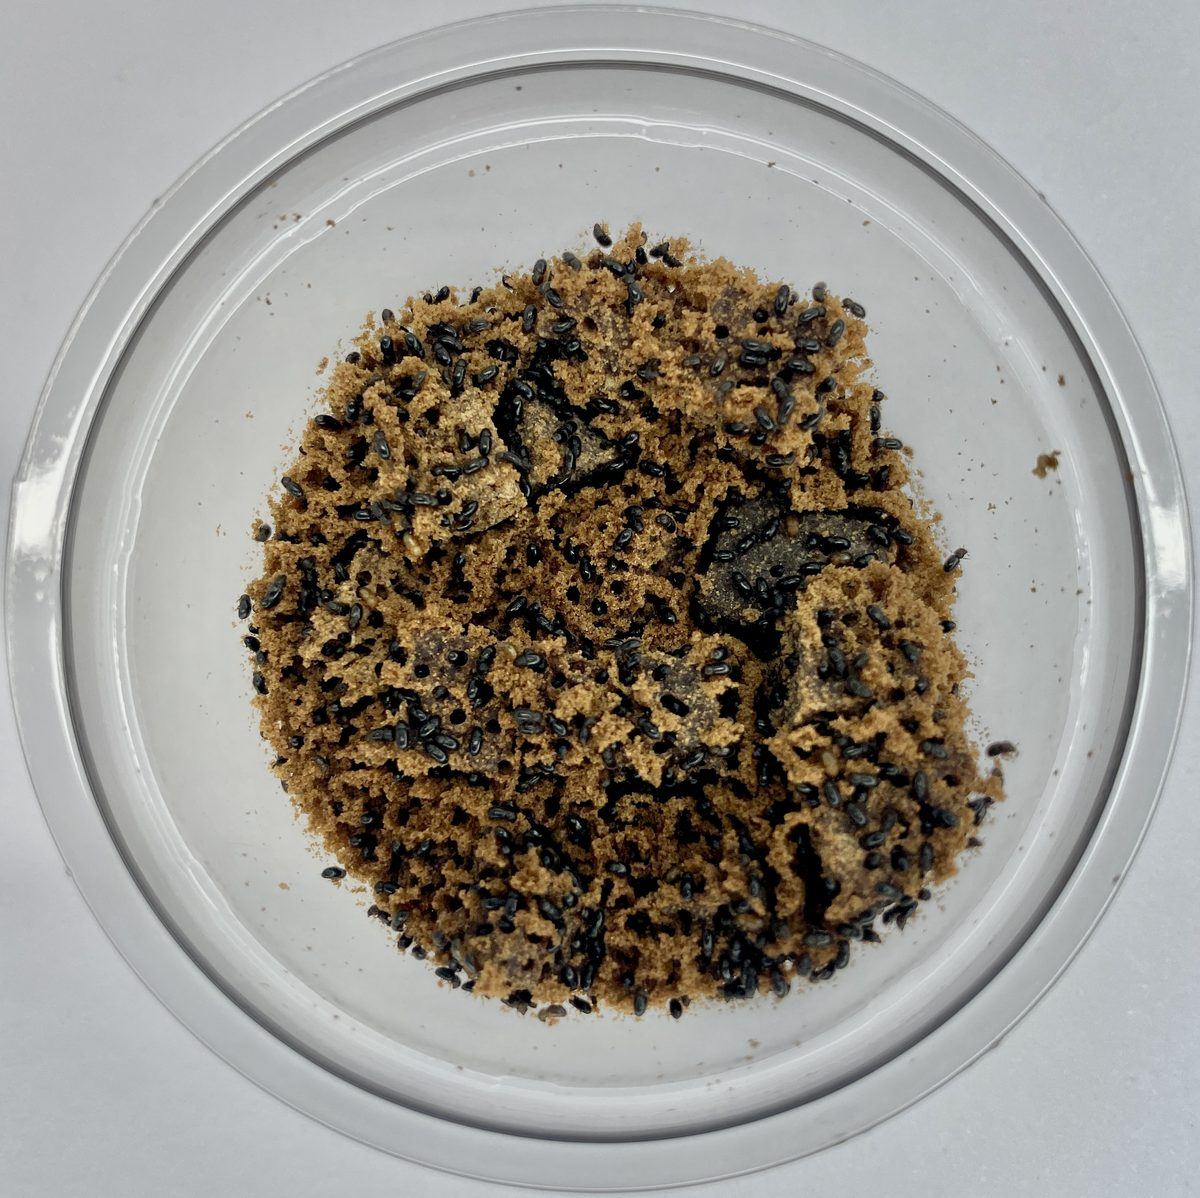
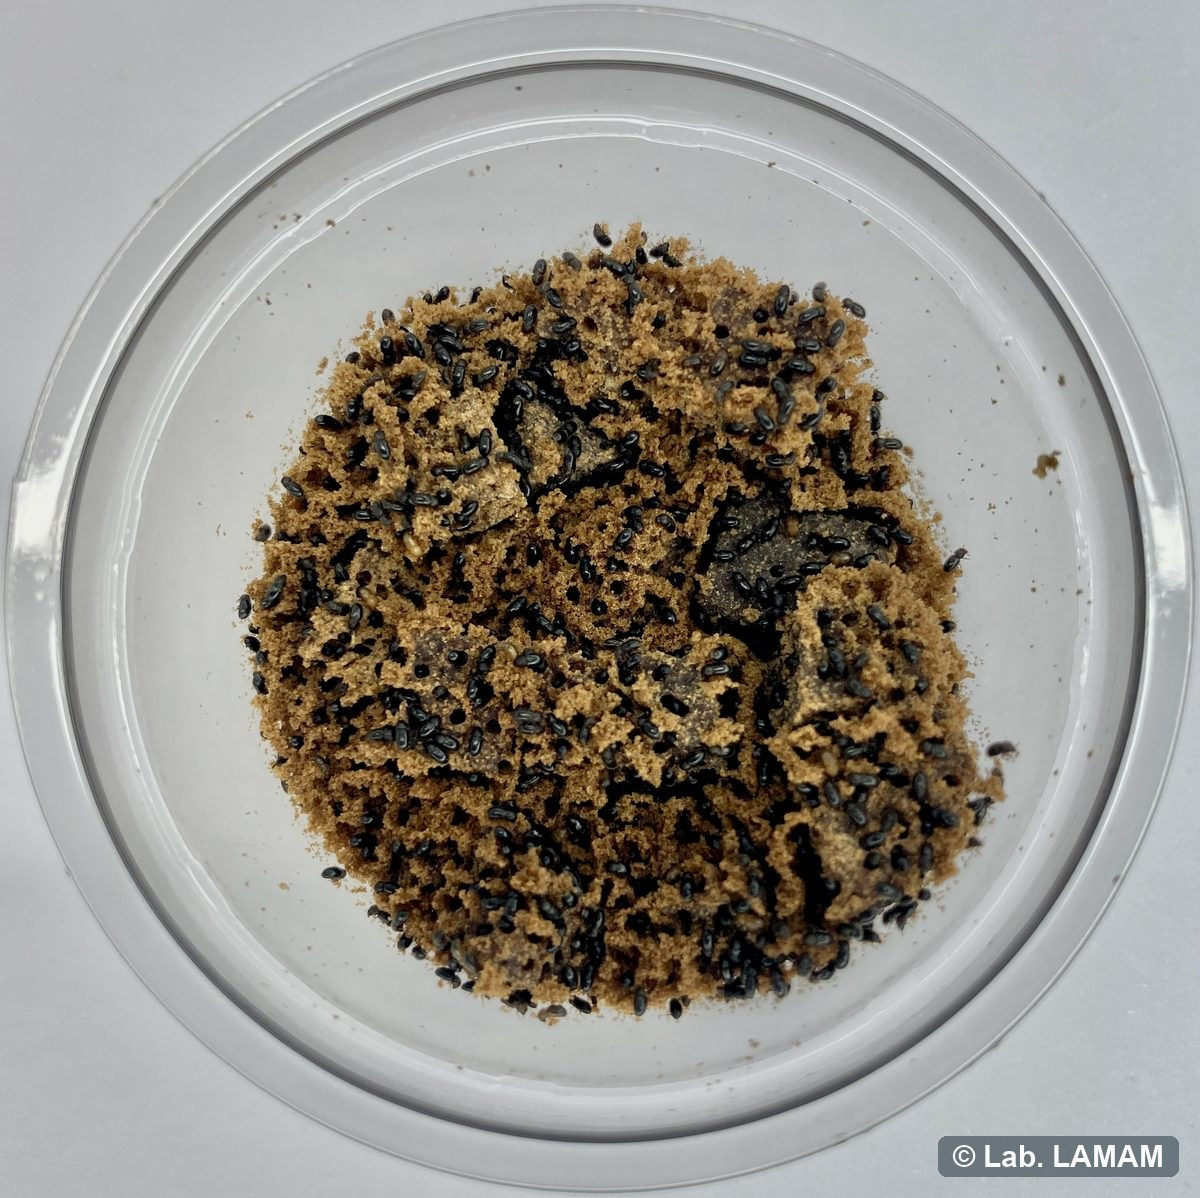
Broca-do-cafe: marca d'agua (c) Lab. LAMAM na foto do hero
Unica foto de servico que estava sem a marca; padronizada com as demais.
+ ?v=2 p/ furar cache da imagem.

Changed region(s): [[0.7708, 0.9265, 0.9867, 0.9883]]

diff --git a/servicos/broca-do-cafe.html b/servicos/broca-do-cafe.html
@@ -48,7 +48,7 @@
         <a class="btn btn-soft" href="../index.html#servicos">&larr; Ver todos</a>
       </div>
     </div>
-    <div class="svc-hero-img"><img src="../img/svc-broca.jpg" alt="Placa com brocas-do-café adultas recuperadas do substrato, no laboratório"></div>
+    <div class="svc-hero-img"><img src="../img/svc-broca.jpg?v=2" alt="Placa com brocas-do-café adultas recuperadas do substrato, no laboratório"></div>
   </div>
 </section>
 
